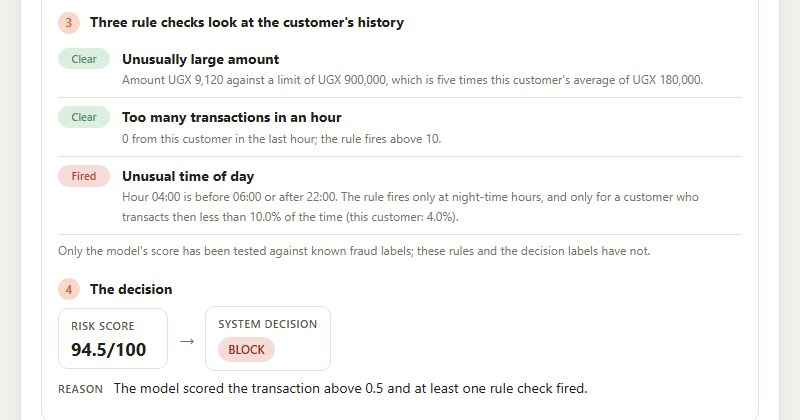
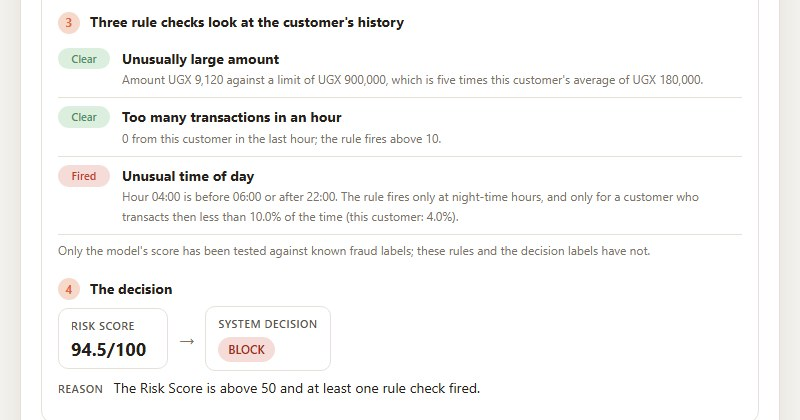
Word the stored reason and the decision explanation like the dashboard (#3)
The reason stored with each decision and the explanation's decision reason now say
"Risk Score" and give it out of 100 with the cut-offs 50 and 70, as the dashboard
does. Decisions, thresholds and stored scores are unchanged. README test count
(236) and the third screenshot updated.

Changed region(s): [[0.1562, 0.8976, 0.7188, 0.9595]]

diff --git a/tests/test_time_and_reason.py b/tests/test_time_and_reason.py
@@ -48,13 +48,13 @@ class TestReason:
         system = make_system(recent=0)                        # the stand-in model scores 0.8 or so
         result = system.process_transaction(dict(TXN, amount=900.0, Time=12 * 3600))
         assert result['decision'] == 'BLOCK'
-        assert 'above 50%' in result['reason'] and '1 rule check fired' in result['reason']
+        assert 'above 50 and 1 rule check fired' in result['reason'] and '/100 is above 50' in result['reason']
         assert 'over 5 times' in result['reason']
 
     def test_review_by_score_alone_and_monitor_say_no_rule_fired_where_that_is_true(self):
         review = make_system(model=make_model(xgboost=FixedProba(0.99), lightgbm=FixedProba(0.99), voting_ensemble=FixedProba(0.99)))
         result = review.process_transaction(dict(TXN))
-        assert result['decision'] == 'REVIEW' and 'above 70%' in result['reason']
+        assert result['decision'] == 'REVIEW' and 'is above 70.' in result['reason']
         monitor = make_system(model=make_model(xgboost=FixedProba(0.62), lightgbm=FixedProba(0.62), voting_ensemble=FixedProba(0.62)))
         result = monitor.process_transaction(dict(TXN))
         assert result['decision'] == 'MONITOR' and 'no rule check fired' in result['reason']
@@ -108,6 +108,31 @@ class TestReason:
         assert 'ALTER TABLE transactions ADD COLUMN IF NOT EXISTS reason TEXT' in create
         log = source.split('def log_transaction')[1].split('def log_fraud_alert')[0]
         assert 'status, reason)' in log and log.count('%s') == 10 and "transaction_data.get('reason')" in log
+
+
+class TestWordingMatchesTheDashboard:
+    """The stored reason and the explanation use the dashboard's words: a Risk Score on a 0 to 100 scale with the same cut-offs"""
+
+    def test_the_cut_offs_in_the_words_are_the_cut_offs_the_dashboard_shows(self):
+        script = (DASHBOARD / 'script.js').read_text(encoding='utf-8')
+        assert 'const SCORE_THRESHOLDS = { fraud: 50, review: 70 }' in script
+        system = make_system()
+        none = dict.fromkeys(['threshold_exceeded', 'velocity_anomaly', 'unusual_time'], False)
+        one = dict(none, threshold_exceeded=True)
+        reasons = [system._decide(one, True, 0.9)[1], system._decide(none, True, 0.8)[1], system._decide(none, True, 0.6)[1], system._decide(none, False, 0.2)[1]]
+        assert reasons == ['The Risk Score is above 50 and at least one rule check fired.', 'The Risk Score is above 70.',
+                           'The Risk Score is above 50, but no rule check fired.', 'The Risk Score is at or below 50 and fewer than two rule checks fired.']
+
+    def test_no_reason_calls_the_score_a_model_score_or_gives_it_as_a_percentage(self):
+        for model in (make_model(xgboost=FixedProba(0.99), lightgbm=FixedProba(0.99), voting_ensemble=FixedProba(0.99)),
+                      make_model(xgboost=FixedProba(0.62), lightgbm=FixedProba(0.62), voting_ensemble=FixedProba(0.62)),
+                      make_model(xgboost=FixedProba(0.1), lightgbm=FixedProba(0.1), voting_ensemble=FixedProba(0.1))):
+            reason = make_system(model=model).process_transaction(dict(TXN))['reason']
+            assert reason.startswith('The Risk Score ') and '/100' in reason and '%' not in reason and 'model score' not in reason, reason
+
+    def test_the_decisions_and_the_stored_score_are_unchanged(self):
+        result = make_system().process_transaction(dict(TXN))
+        assert 0 < result['fraud_score'] < 1 and result['decision'] in ('ALLOW', 'MONITOR', 'REVIEW', 'BLOCK')
 
 
 # ---------------------------------------------------------------- the date and time

diff --git a/fraud_detection_system.py b/fraud_detection_system.py
@@ -347,14 +347,14 @@ class FraudDetectionSystem:
         if sql_flag_count >= 3:
             return 'BLOCK', 'All three rule checks fired.'
         if ml_fraud and sql_flag_count >= 1:
-            return 'BLOCK', 'The model scored the transaction above 0.5 and at least one rule check fired.'
+            return 'BLOCK', 'The Risk Score is above 50 and at least one rule check fired.'
         if sql_flag_count >= 2:
             return 'REVIEW', 'Two rule checks fired.'
         if fraud_probability > 0.7:
-            return 'REVIEW', 'The model scored the transaction above 0.7.'
+            return 'REVIEW', 'The Risk Score is above 70.'
         if ml_fraud or fraud_probability > 0.5:
-            return 'MONITOR', 'The model scored the transaction above 0.5, but no rule check fired.'
-        return 'ALLOW', 'The score is at or below 0.5 and fewer than two rule checks fired.'
+            return 'MONITOR', 'The Risk Score is above 50, but no rule check fired.'
+        return 'ALLOW', 'The Risk Score is at or below 50 and fewer than two rule checks fired.'
     
     @staticmethod
     def _own_time(transaction):
@@ -379,20 +379,20 @@ class FraudDetectionSystem:
         count = len(fired)
         rules = '; '.join(fired)
         plural = '' if count == 1 else 's'
-        score = f"{fraud_probability:.1%}"
+        score = f"{fraud_probability * 100:.1f}/100"          # the dashboard shows the stored 0 to 1 score as a Risk Score out of 100
         if decision == 'BLOCK':
             if count >= 3:
                 return f"All three rule checks fired: {rules}."
-            return f"The model score {score} is above 50% and {count} rule check{plural} fired: {rules}."
+            return f"The Risk Score {score} is above 50 and {count} rule check{plural} fired: {rules}."
         if decision == 'REVIEW':
             if count >= 2:
                 return f"{count} rule checks fired: {rules}."
-            return f"The model score {score} is above 70%."
+            return f"The Risk Score {score} is above 70."
         if decision == 'MONITOR':
-            return f"The model score {score} is above 50%, but no rule check fired."
+            return f"The Risk Score {score} is above 50, but no rule check fired."
         if count:
-            return f"The model score {score}; only {count} rule check{plural} fired ({rules}), which is not enough to act."
-        return f"The model score {score}; no rule check fired."
+            return f"The Risk Score {score}; only {count} rule check{plural} fired ({rules}), which is not enough to act."
+        return f"The Risk Score {score}; no rule check fired."
 
     def _validate_transaction(self, transaction):
         """Validate transaction data (same rules as the API)"""

diff --git a/tests/test_explain.py b/tests/test_explain.py
@@ -196,9 +196,9 @@ class TestDecision:
         assert 'All three' in system._decide(three, False, 0.1)[1]
         assert 'at least one rule' in system._decide(one, True, 0.9)[1]
         assert 'Two rule checks' in system._decide(two, False, 0.1)[1]
-        assert '0.7' in system._decide(none, True, 0.8)[1]
+        assert 'above 70' in system._decide(none, True, 0.8)[1]
         assert 'no rule check fired' in system._decide(none, True, 0.6)[1]
-        assert 'at or below 0.5' in system._decide(none, False, 0.2)[1]
+        assert 'at or below 50' in system._decide(none, False, 0.2)[1]
 
 
 class TestRules:

diff --git a/README.md b/README.md
@@ -112,7 +112,7 @@ python benchmark_db.py stop
 
 Timing results are only meaningful on a quiet machine: close other programs first. The sweep and the network test check the machine's load and can wait for it to settle (`--wait-quiet`).
 
-**Tests.** `python -m pytest tests` runs 233 tests: 71 of the API's security behaviour (input validation, login, the signing key, error handling and the dashboard's output escaping), 33 of the results page (its data, endpoint, layout and verdict, and that the figures it derives agree with the report), 33 of the reasons, dates and times (the stored reason for each decision, each transaction's own time, the clickable decision, and the velocity rule counted by that time), 20 of the score explanation (it must match the score exactly and change no decision), 20 of the rate limits (counted per visitor, health check exempt, an open dashboard never locked out), 15 of batch uploads (shared reads, a failing row, timing, the hourly count by each transaction's own time), 13 of the database connection recovery, 17 of the session reset, and 11 of the customer profile (no name shown, the risk labels and the decision counts). They use a stand-in for the fraud system, so they need neither the database nor the trained model. The model, the scoring and the benchmarks have no automated tests.
+**Tests.** `python -m pytest tests` runs 236 tests: 71 of the API's security behaviour (input validation, login, the signing key, error handling and the dashboard's output escaping), 33 of the results page (its data, endpoint, layout and verdict, and that the figures it derives agree with the report), 36 of the reasons, dates and times (the stored reason for each decision and its wording, which matches the dashboard's, each transaction's own time, the clickable decision, and the velocity rule counted by that time), 20 of the score explanation (it must match the score exactly and change no decision), 20 of the rate limits (counted per visitor, health check exempt, an open dashboard never locked out), 15 of batch uploads (shared reads, a failing row, timing, the hourly count by each transaction's own time), 13 of the database connection recovery, 17 of the session reset, and 11 of the customer profile (no name shown, the risk labels and the decision counts). They use a stand-in for the fraud system, so they need neither the database nor the trained model. The model, the scoring and the benchmarks have no automated tests.
 
 ---
 
